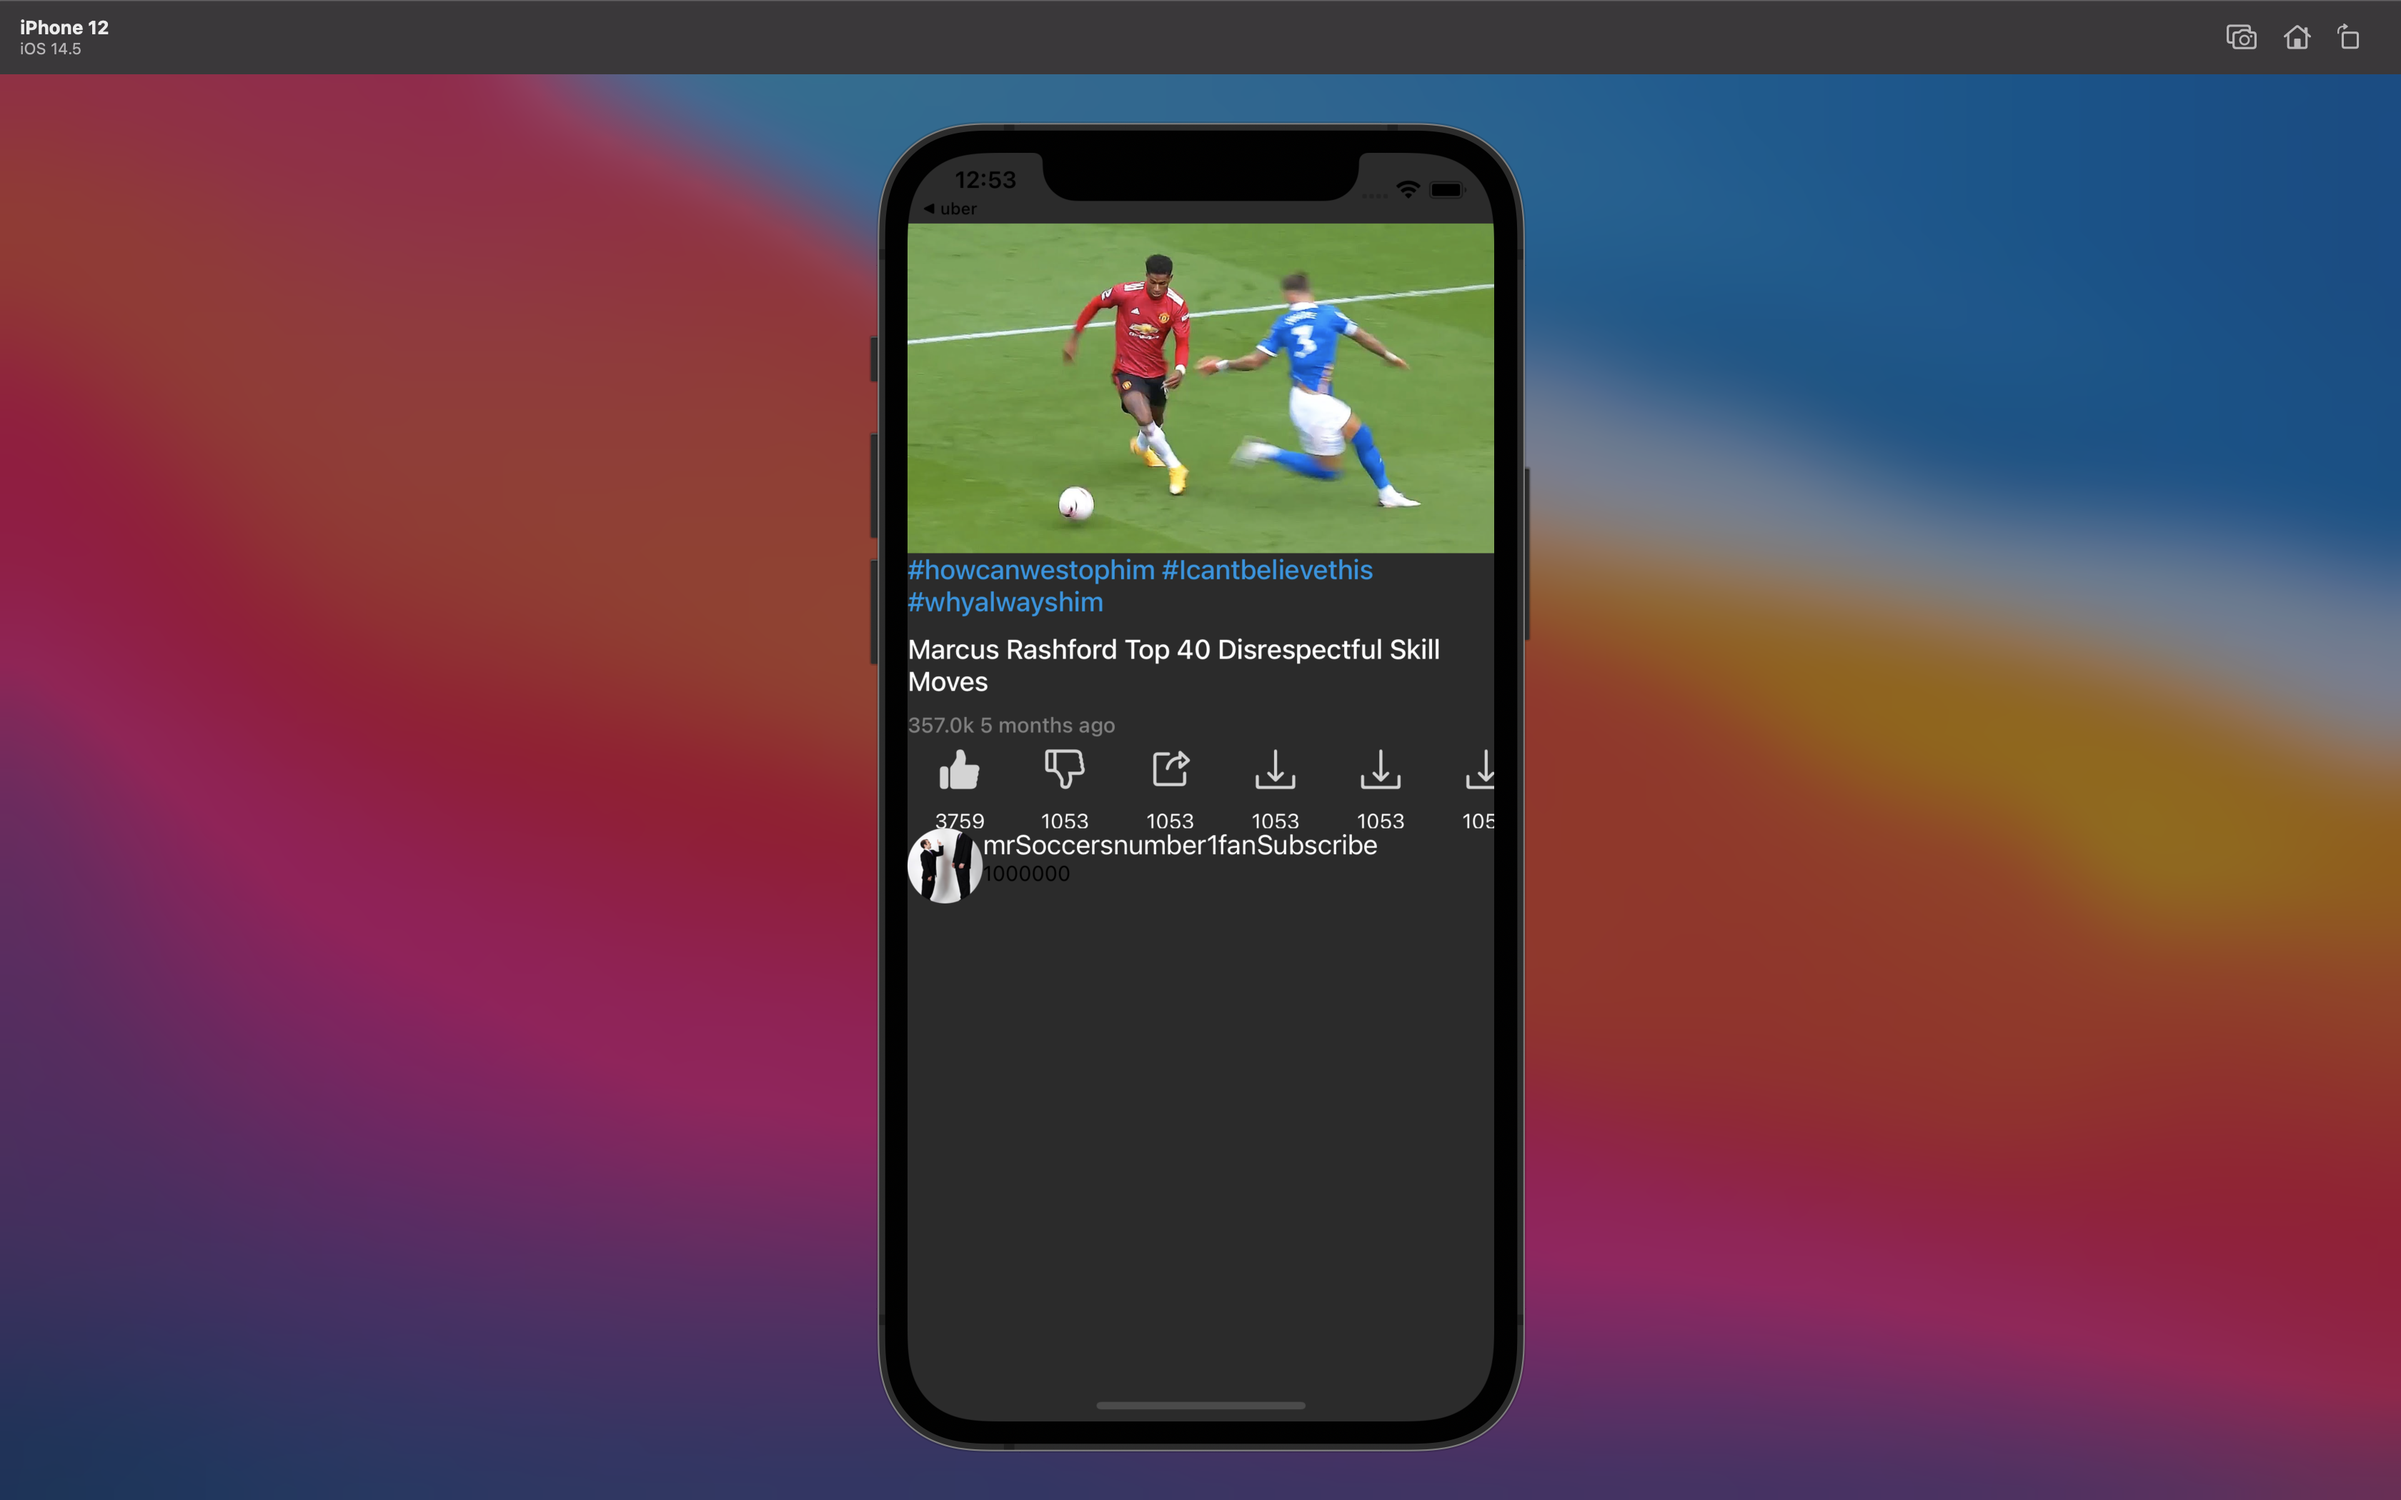
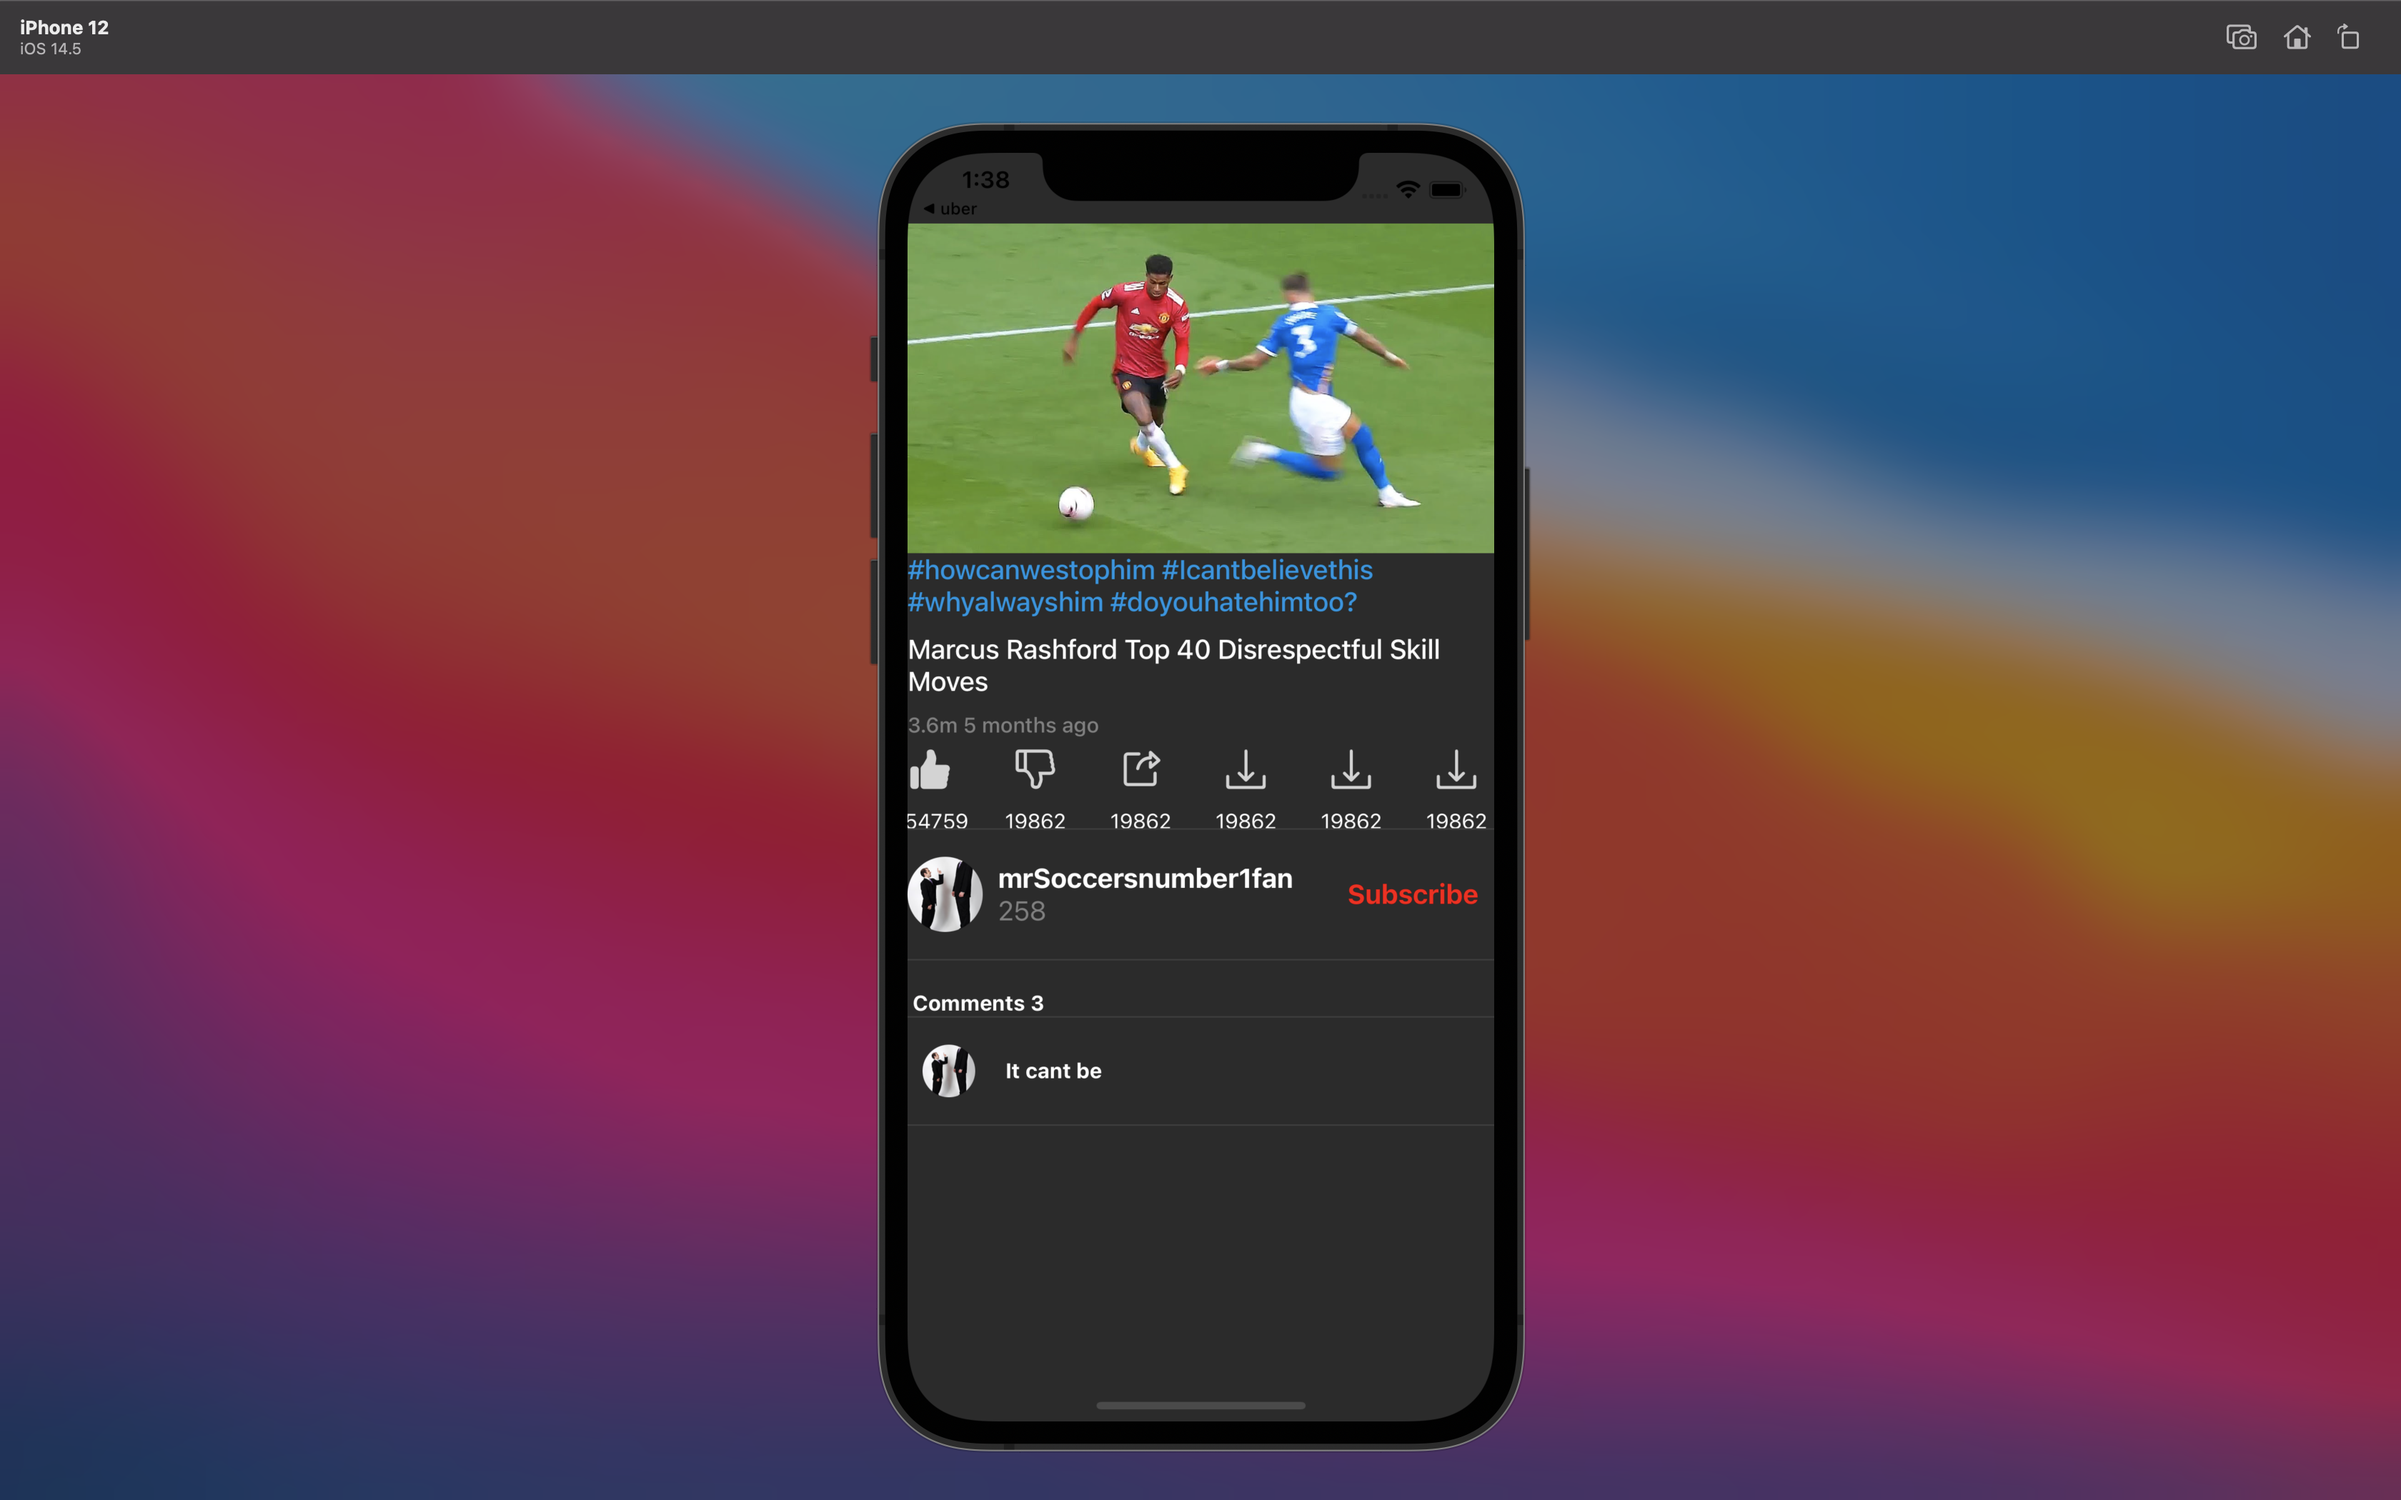
third commit (wip)

diff --git a/screens/VideoScreen.tsx b/screens/VideoScreen.tsx
@@ -106,23 +106,72 @@ const VideoScreen = () => {
 
 
 
-            <View style={{flexDirection: 'row'}}>
+            <View style={{flexDirection: 'row', alignItems: 'center', paddingVertical: 18,  borderColor: '#3d3d3d', borderTopWidth: 1, borderBottomWidth: 1}}>
 
 
                 <Image style = {styles.avatar } source={{ uri: video.user.image}} />
 
 
 
-                <View>
+                <View style={{marginHorizontal: 10, flex: 1}}>
 
-                    <Text style={{color: "white", fontSize: 18}}>{video.user.name}</Text>
-                    <Text>{video.user.subscribers}</Text>
+                    <Text style={{color: "white", fontSize: 18, fontWeight: 'bold'}}>{video.user.name}</Text>
+                    <Text style={{color: "grey", fontSize: 18}}>{video.user.subscribers}</Text>
+                    
+                    {/* <Text>{video.user.subscribers}</Text> */}
 
                 </View>
 
-                <Text style={{color: 'white', fontSize: 18}}>Subscribe</Text>
+                <Text style={{color: 'red', fontSize: 18, fontWeight: 'bold', padding: 10}}>Subscribe</Text>
 
 
+            </View>
+
+
+            
+
+
+            <View>
+
+                <View style={{padding: 10}}>
+
+
+
+
+                </View>
+
+
+                <Text style={{color: 'white', fontWeight: 'bold'}}> Comments 3</Text>
+
+            <>
+            <View style={{flexDirection: 'row', alignItems: 'center', padding: 10, paddingVertical: 18,  borderColor: '#3d3d3d', borderTopWidth: 1, borderBottomWidth: 1}}>
+
+
+                <Image style = {{width: 35, height: 35, borderRadius: 20}} source={{ uri: video.user.image}} />
+
+
+
+                <View style={{marginHorizontal: 10, flex: 1}}>
+
+                    <Text style={{color: "white", fontWeight: 'bold', marginLeft: 10,}}>It cant be</Text>
+                    
+                </View>
+
+                
+
+            
+
+            </View>
+
+            
+
+
+
+
+            
+
+
+            </>
 
 
 
